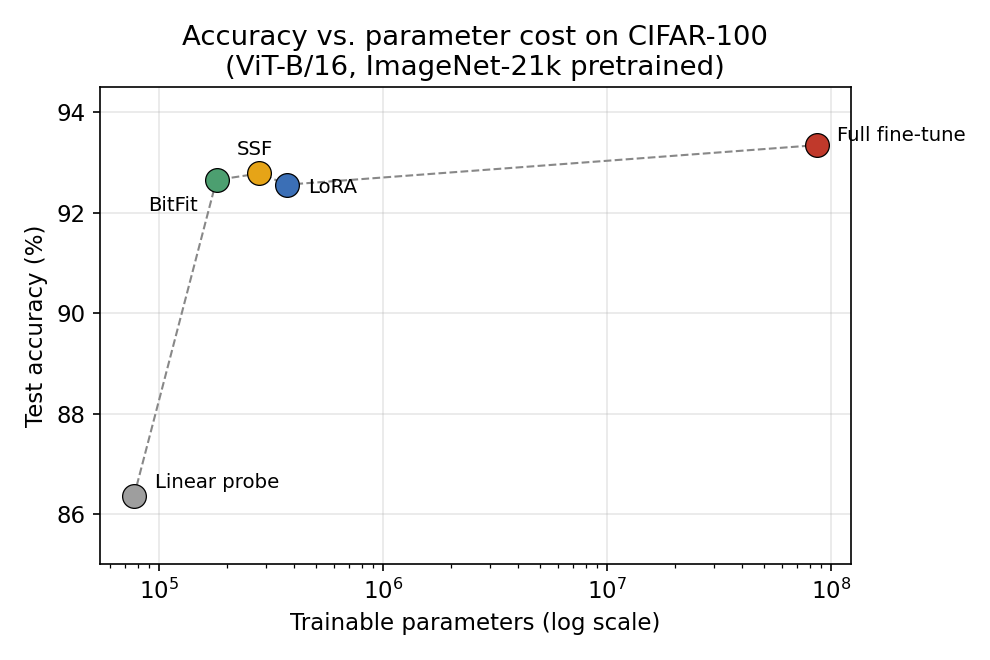
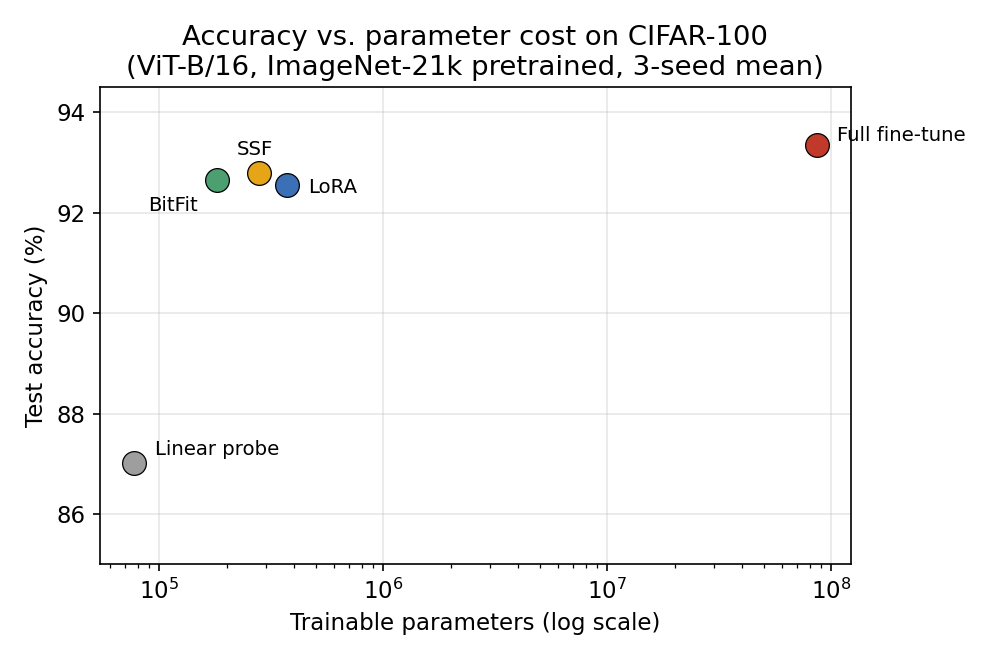
Add files via upload

diff --git a/scripts/make_figures.py b/scripts/make_figures.py
@@ -66,7 +66,8 @@ def cell(method, dataset, col="test_acc"):
 fig, ax = plt.subplots(figsize=(6.6, 4.4))
 xs = [cell(m, "cifar100", "trainable") for m in ORDER]
 ys = [cell(m, "cifar100", "test_acc") for m in ORDER]
-ax.plot(xs, ys, color="#888", lw=1, ls="--", zorder=1)
+# scatter only -- deliberately NOT connected with a line, so the figure does not
+# suggest a continuously tunable Pareto frontier (see the caption of Fig. 1)
 for m, x, y in zip(ORDER, xs, ys):
     ax.scatter(x, y, s=130, color=COL[m], edgecolor="black", lw=0.6, zorder=3)
 posd = {"linear": (10, 4, "left"), "bitfit": (-9, -15, "right"), "ssf": (-2, 9, "center"),
@@ -77,7 +78,7 @@ for m, x, y in zip(ORDER, xs, ys):
 ax.set_xscale("log")
 ax.set_xlabel("Trainable parameters (log scale)")
 ax.set_ylabel("Test accuracy (%)")
-ax.set_title("Accuracy vs. parameter cost on CIFAR-100\n(ViT-B/16, ImageNet-21k pretrained)")
+ax.set_title("Accuracy vs. parameter cost on CIFAR-100\n(ViT-B/16, ImageNet-21k pretrained, 3-seed mean)")
 ax.set_ylim(85, 94.5)
 fig.tight_layout()
 fig.savefig(os.path.join(OUT, "fig1_pareto_cifar100.png"))

diff --git a/README.md b/README.md
@@ -4,6 +4,8 @@
 并对 LoRA、SSF 做 **3 个随机种子的层位置消融**(固定预算下适配早/中/晚/均匀分布的 Transformer Block),
 据此提出 **“深度感知 PEFT(Depth-aware PEFT)”** 改进,并对比五种方法的显存与时间开销。
 
+**代码仓库**:<https://github.com/YaoYang-123456/peft-vit>(本压缩包与仓库内容一致)
+
 ## 主要结论
 - PEFT 仅用 **<0.5% 参数**即可恢复全量微调约 **99%** 的精度。
 - **小数据上 PEFT 反超全量微调**(**3 种子确认**):Flowers-102 上 LoRA 99.31±0.15% vs Full 95.78±**0.88**%(差 3.5 pp);Pets 上 93.97±0.37% vs 92.36±0.77%(差 1.6 pp)。Full FT 方差是 PEFT 的 2–10 倍,说明小数据上全量微调不仅精度低,结果也更不稳定。
@@ -16,11 +18,13 @@
 
 | 方法 | CIFAR-100 | Flowers-102 | Pets |
 |---|---|---|---|
-| Linear probe | 86.35±0.46 | 98.85±0.26 | 92.10±0.57 |
+| Linear probe | 87.01±0.24 | 98.85±0.26 | 92.10±0.57 |
 | BitFit | 92.65±0.29 | 99.12±0.16 | 93.74±0.38 |
 | SSF | 92.78±0.17 | 99.22±0.08 | 93.79±0.62 |
 | LoRA | 92.56±0.09 | 99.31±0.15 | 93.97±0.37 |
 | Full fine-tune | 93.35±0.14 | **95.78±0.88** | **92.36±0.77** |
+
+(所有方法、含线性探测,统一训练轮数与调度:CIFAR-100 20 轮、Flowers/Pets 30 轮,前 10 轮线性预热 + 余弦退火。)
 
 **CIFAR-100 层位置消融(3 种子)**:LoRA early/mid/even ≈92.2–92.4% vs late 90.91%;SSF early/mid/even ≈92.2–92.6% vs late 90.40%。Flowers/Pets 上所有放法精度相近(<0.3 pp)——机制得到验证。
 